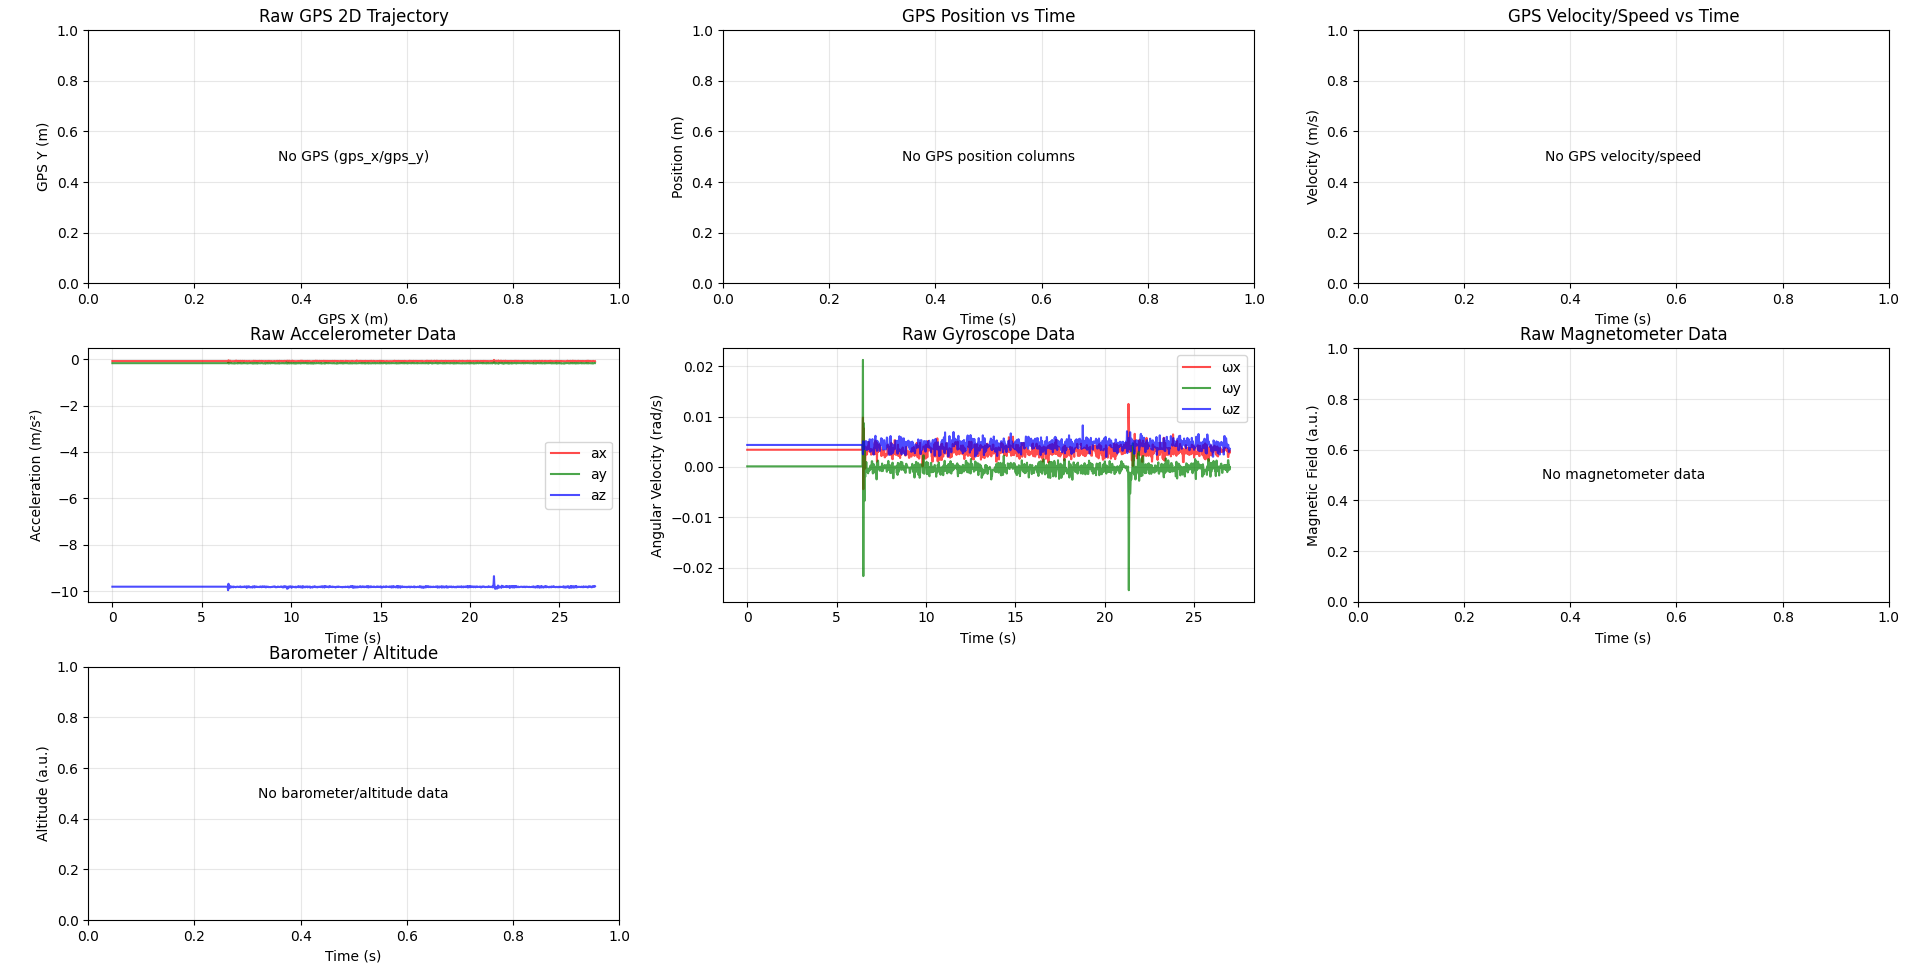
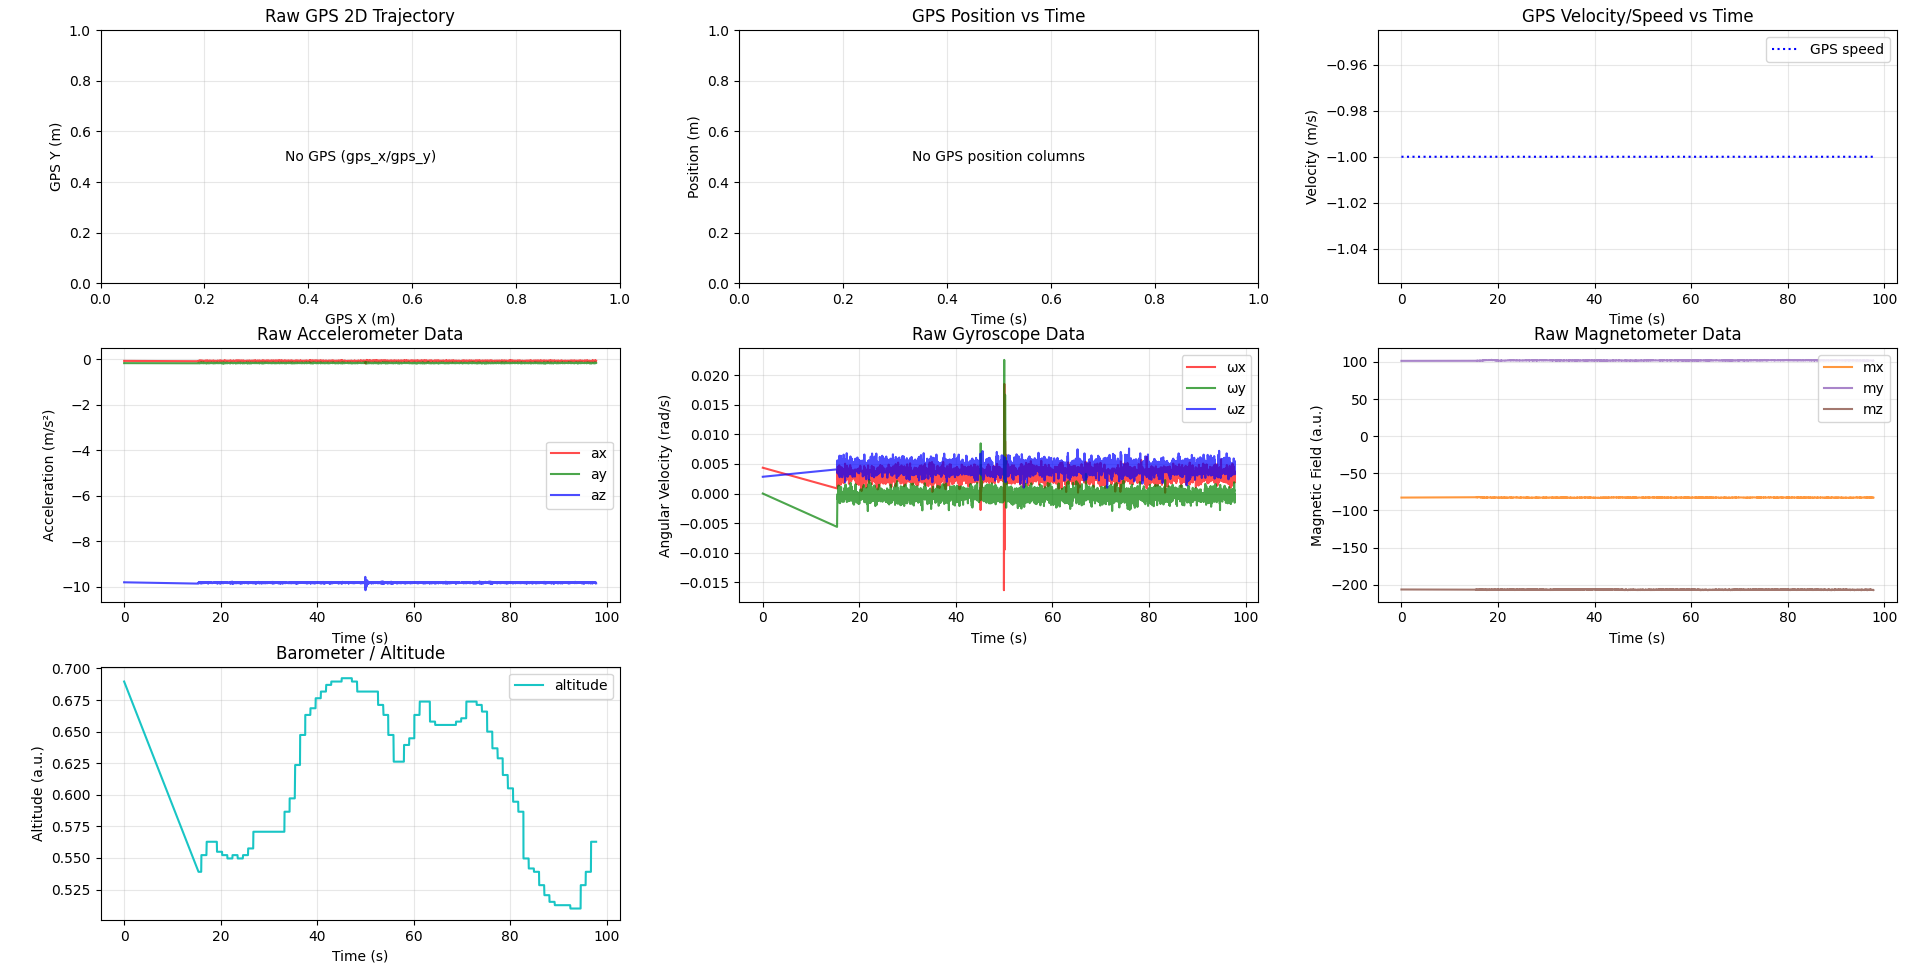
18.08 -v5

diff --git a/iphone_integration/pi_phone_connection/main_integration_robomaster.py b/iphone_integration/pi_phone_connection/main_integration_robomaster.py
@@ -113,7 +113,10 @@ class RoboMasterEKFIntegration:
         self.gps_reference = {
             'lat': None,
             'lon': None,
-            'set': False
+            'set': False,
+            'lat_buffer': [],
+            'lon_buffer': [],
+            'warmup_samples': 30  # average first N fixes
         }
         
         logger.info("RoboMaster iPhone-EKF integration initialized (exact formulary)")
@@ -424,7 +427,17 @@ class RoboMasterEKFIntegration:
             if raw_data.yaw is not None:
                 yaw_meas = raw_data.yaw
         
+        # Post-calibration settle: ignore yaw updates for first 2 seconds
+        if self.stats['start_time'] and (time.time() - self.stats['start_time']) < 2.0:
+            return
+        # Magnetometer gating by norm if available
         if yaw_meas is not None:
+            # If mag present in processed_data, check norm stability (optional)
+            mag = processed_data.get('mag', None)
+            if mag is not None:
+                norm = np.linalg.norm(mag)
+                if not (10.0 <= norm <= 80.0):  # broad μT range indoors
+                    return
             self.ekf.update_yaw(yaw_meas)
     
     def _update_with_gps(self, raw_data: iPhoneSensorData, processed_data: Dict):
@@ -432,18 +445,26 @@ class RoboMasterEKFIntegration:
         if 'gps' in processed_data and processed_data['gps']:
             gps_data = processed_data['gps']
             if all(k in gps_data for k in ['lat', 'lon']):
-                self._handle_gps_update(gps_data)
+                self._handle_gps_update(gps_data, processed_data)
     
-    def _handle_gps_update(self, gps_data: Dict):
+    def _handle_gps_update(self, gps_data: Dict, processed_data: Dict = None):
         """Handle GPS updates with coordinate conversion"""
         lat, lon = gps_data['lat'], gps_data['lon']
         
-        # Set reference point on first GPS fix
+        # Build averaged reference from first N good fixes
         if not self.gps_reference['set']:
-            self.gps_reference['lat'] = lat
-            self.gps_reference['lon'] = lon
-            self.gps_reference['set'] = True
-            logger.info(f"GPS reference set: {lat:.6f}, {lon:.6f}")
+            acc = gps_data.get('accuracy', None)
+            # only accept reasonably accurate fixes for origin
+            if acc is None or acc <= 5.0:
+                self.gps_reference['lat_buffer'].append(lat)
+                self.gps_reference['lon_buffer'].append(lon)
+            if len(self.gps_reference['lat_buffer']) >= self.gps_reference['warmup_samples']:
+                self.gps_reference['lat'] = float(np.mean(self.gps_reference['lat_buffer']))
+                self.gps_reference['lon'] = float(np.mean(self.gps_reference['lon_buffer']))
+                self.gps_reference['set'] = True
+                logger.info(f"GPS reference set (avg {len(self.gps_reference['lat_buffer'])}): {self.gps_reference['lat']:.6f}, {self.gps_reference['lon']:.6f}")
+            else:
+                return  # wait until we have enough samples
         
         # Convert to local coordinates
         lat_to_m = 111320.0
@@ -454,13 +475,31 @@ class RoboMasterEKFIntegration:
         
         gps_pos = np.array([x_gps, y_gps])
         
-        # Update EKF with GPS position
-        self.ekf.update_gps_position(gps_pos)
+        # Stationary detection (freeze position when stationary)
+        speed_meas = gps_data.get('speed', None)
+        gyro_z = 0.0
+        if processed_data is not None:
+            gyro_z = processed_data.get('gyro', [0,0,0])[2]
+        is_stationary = ((speed_meas is not None and speed_meas < 0.05) or speed_meas is None) and abs(gyro_z) < 0.02
+        # Accuracy-adaptive gating
+        acc = gps_data.get('accuracy', None)
+        if is_stationary:
+            # Skip GPS position update unless accuracy tight
+            if acc is not None and acc > 1.5:
+                pass  # do not update position
+            else:
+                self.ekf.update_gps_position(gps_pos)
+            # Always apply ZUPT and ZARU when stationary
+            self.ekf.update_zero_velocity(speed_threshold=0.1)
+            self.ekf.update_zero_angular_rate(angular_rate_threshold=0.05)
+        else:
+            # Moving: accept position normally
+            self.ekf.update_gps_position(gps_pos)
         
         # If GPS provides velocity, use it too
         if 'speed' in gps_data and 'course' in gps_data:
-            speed = gps_data['speed']
-            course_rad = np.radians(gps_data['course'])
+            speed = gps_data['speed'] or 0.0
+            course_rad = np.radians(gps_data['course'] or 0.0)
             
             vx_gps = speed * np.cos(course_rad)
             vy_gps = speed * np.sin(course_rad)

diff --git a/iphone_integration/offline_analysis/python/robomaster_ekf_analysis.py b/iphone_integration/offline_analysis/python/robomaster_ekf_analysis.py
@@ -286,6 +286,30 @@ def plot_raw_sensor_overview(df, output_dir):
     """Create a dedicated figure for raw sensor data (GPS/IMU/Mag/Baro)"""
     print("\n📊 Creating Raw Sensor overview plots...")
 
+    # Ensure relative time exists
+    if 'time_rel' not in df.columns and 'timestamp' in df.columns and len(df) > 0:
+        df['time_rel'] = df['timestamp'] - df['timestamp'].iloc[0]
+
+    # If GPS local coords missing, derive from any lat/lon columns
+    have_local = {'gps_x', 'gps_y'}.issubset(df.columns)
+    have_ll = {'lat','lon'}.issubset(df.columns) or {'gps_lat','gps_lon'}.issubset(df.columns)
+    if not have_local and have_ll:
+        try:
+            if {'lat','lon'}.issubset(df.columns):
+                lat_series = df['lat']
+                lon_series = df['lon']
+            else:
+                lat_series = df['gps_lat']
+                lon_series = df['gps_lon']
+            lat0 = float(lat_series.iloc[0])
+            lon0 = float(lon_series.iloc[0])
+            lat_to_m = 111320.0
+            lon_to_m = 111320.0 * np.cos(np.radians(lat0))
+            df['gps_x'] = (lat_series - lat0) * lat_to_m
+            df['gps_y'] = (lon_series - lon0) * lon_to_m
+        except Exception:
+            pass
+
     fig = plt.figure(figsize=(16, 12))
 
     # 1. GPS 2D trajectory (if available)

diff --git a/iphone_integration/pi_phone_connection/iphone_sensor_receiver.py b/iphone_integration/pi_phone_connection/iphone_sensor_receiver.py
@@ -431,6 +431,15 @@ class iPhoneDataReceiver:
             acc = get_num(json_data, 'gps_accuracy', acc)
             spd = get_num(json_data, 'gps_speed', spd)
             crs = get_num(json_data, 'gps_course', crs)
+        # Common generic keys used by various apps
+        if lat is None:
+            lat = get_num(json_data, 'lat', None)
+        if lon is None:
+            lon = get_num(json_data, 'lon', None)
+        if lon is None:
+            lon = get_num(json_data, 'lng', None)
+        if alt is None:
+            alt = get_num(json_data, 'alt', None)
         # Generic fallbacks
         if spd is None:
             spd = get_num(json_data, 'speed', None)
@@ -628,7 +637,10 @@ class iPhoneDataProcessor:
             processed['gps'] = {
                 'lat': raw_data.gps_lat,
                 'lon': raw_data.gps_lon,
-                'alt': raw_data.gps_alt
+                'alt': raw_data.gps_alt,
+                'accuracy': raw_data.gps_accuracy,
+                'speed': raw_data.gps_speed,
+                'course': raw_data.gps_course
             }
         
         if raw_data.pressure is not None:
